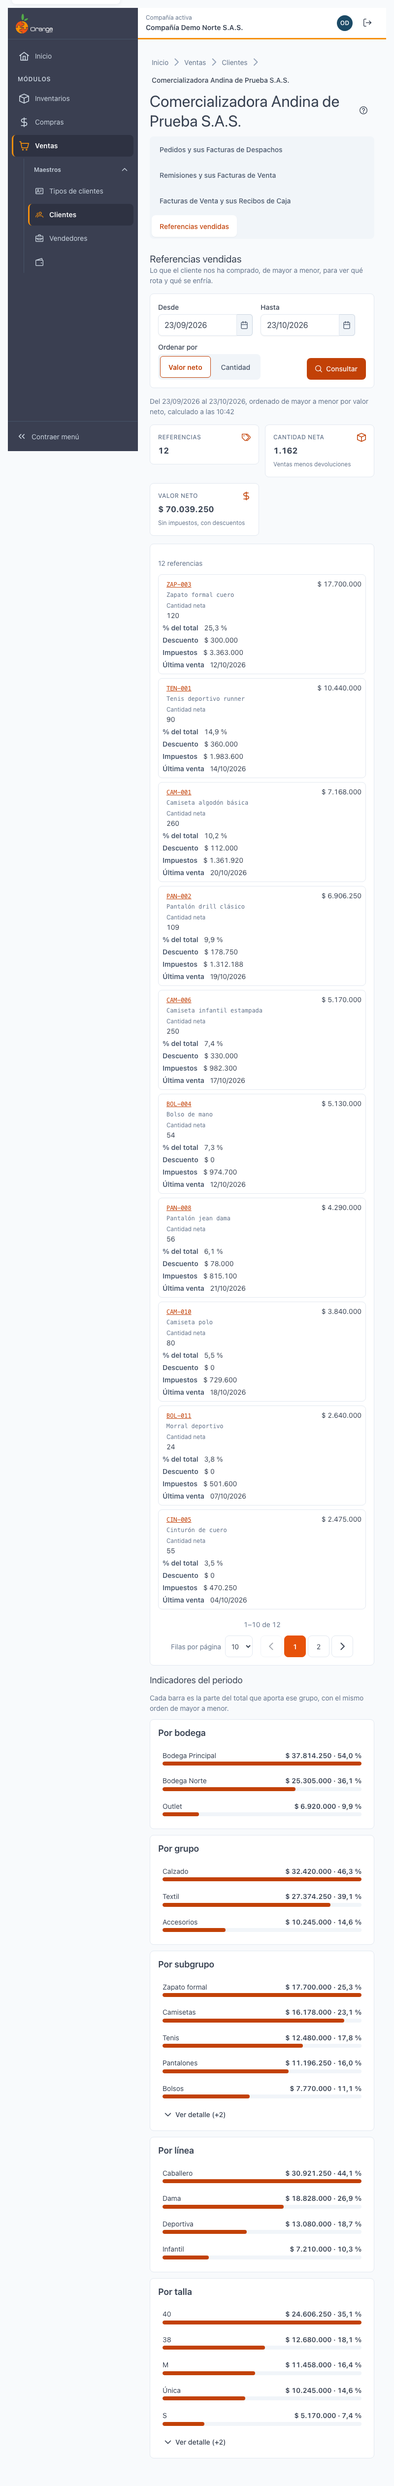
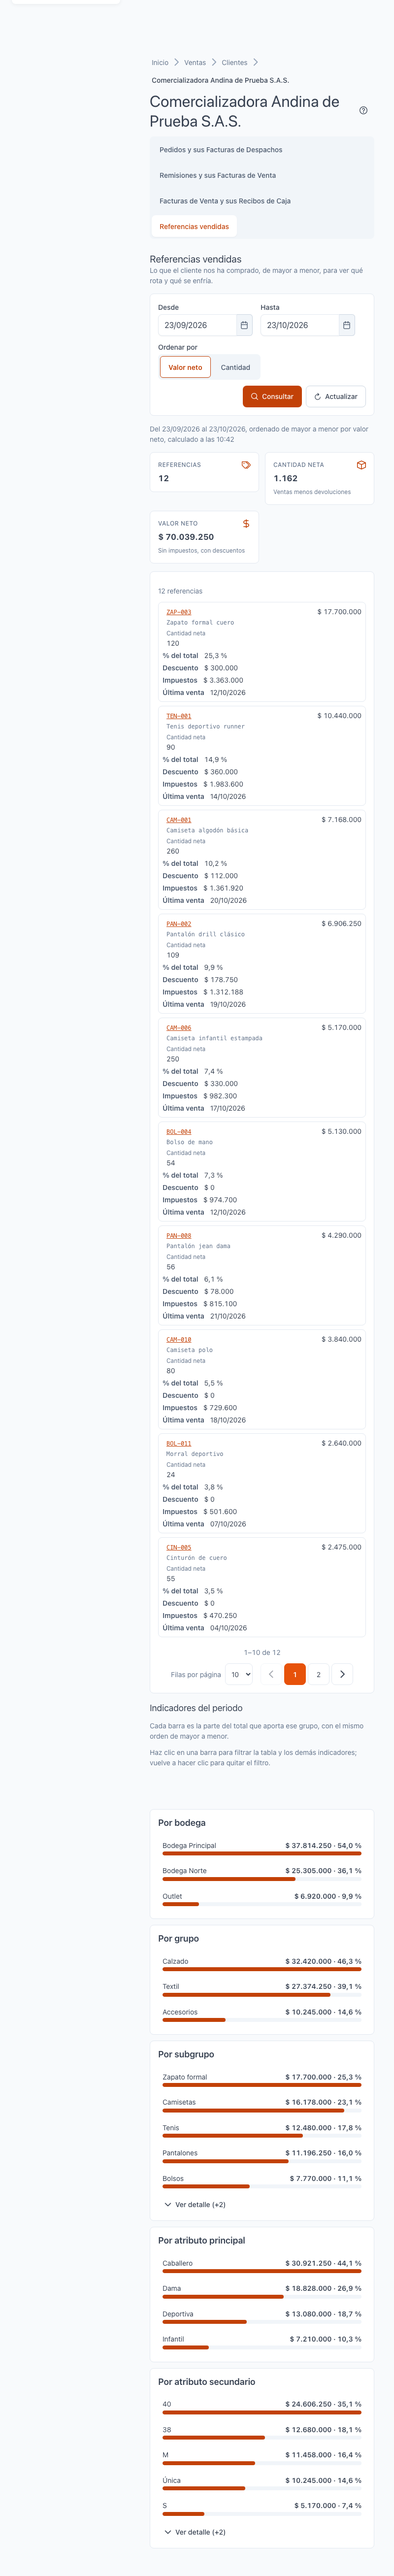
docs(v2026): manual de referencias vendidas con indicadores interactivos y filtros

Changed region(s): [[0.0, 0.0, 0.9375, 0.9952], [0.7188, 0.622, 0.7812, 0.6842], [0.8438, 0.0, 0.9062, 0.0311]]

diff --git a/v2026/ventas/clientes/ficha-referencias-vendidas.md b/v2026/ventas/clientes/ficha-referencias-vendidas.md
@@ -10,13 +10,13 @@
 ![Static Badge](https://img.shields.io/badge/Opcion-FichaReferenciasVendidas-green)
 ![Static Badge](https://img.shields.io/badge/Version-V2026-purple)
 
-![Static Badge](https://img.shields.io/badge/Actualizacion-20261025-yellow)
+![Static Badge](https://img.shields.io/badge/Actualizacion-20261026-yellow)
 
 ---
 
 ## 📋 Descripción
 
-La pestaña **Referencias vendidas** muestra **lo que el cliente nos ha comprado**, de **mayor a menor**, para ver qué productos rotan y cuáles se enfrían. También reparte lo vendido por **bodega, grupo, subgrupo, línea y talla**.
+La pestaña **Referencias vendidas** muestra **lo que el cliente nos ha comprado**, de **mayor a menor**, para ver qué productos rotan y cuáles se enfrían. También reparte lo vendido por **bodega, grupo, subgrupo, atributo principal y atributo secundario**, y le permite filtrar la lista haciendo clic en las barras.
 
 Es una pantalla de **consulta**: no crea, no edita ni elimina nada.
 
@@ -47,9 +47,10 @@ La pestaña solo aparece si su perfil puede **consultar ventas por clientes y re
 |----------|----------------|
 | **?** (junto al título) | Abre esta ayuda en un panel lateral, sin salir de la pantalla. |
 | **Desde** y **Hasta** | Rango de fechas de las ventas. Por defecto es el **último mes**. Puede ampliarlo para ver más historia. |
-| **Ordenar por** | **Valor neto** (por defecto) o **Cantidad**. Cambia el orden de la lista. |
-| **Consultar** | Vuelve a calcular con el rango y el orden elegidos. La pantalla no se actualiza sola. |
-| **Tarjetas de totales** | **Referencias**, **Cantidad neta** (ventas menos devoluciones) y **Valor neto** (sin impuestos, con descuentos). |
+| **Ordenar por** | **Valor neto** (por defecto) o **Cantidad**. Cambia el orden de la lista al momento. |
+| **Consultar** | Vuelve a calcular las ventas con el rango de fechas elegido. La pantalla no se actualiza sola. |
+| **Tarjetas de totales** | **Referencias**, **Cantidad neta** (ventas menos devoluciones) y **Valor neto** (sin impuestos, con descuentos). Muestran solo lo que está filtrado. |
+| **Filtros activos** | Aparecen cuando hay filtros puestos. Vea [Filtrar con los indicadores](#-filtrar-con-los-indicadores). |
 | **Lista de referencias** | Una referencia por fila o tarjeta, de mayor a menor, con cantidad y valor. |
 | **Ver documentos de…** | Abre el detalle de esa referencia (ver más abajo). |
 
@@ -57,12 +58,12 @@ Al pie de la consulta aparece cuándo se calculó (**«Del … al …, ordenado 
 
 ### Mayor a menor
 
-La lista siempre va de **mayor a menor** según la métrica elegida:
+La lista siempre va de **mayor a menor** según la medida elegida:
 
 - Con **Valor neto**, arriba están las referencias que más dinero representan.
 - Con **Cantidad**, arriba están las que más unidades representan.
 
-Cambie la métrica en **Ordenar por** y pulse **Consultar** si lo necesita. Las dos vistas se pueden comparar para encontrar productos con mucho volumen y poco valor, o al revés.
+Cambie la medida en **Ordenar por**. La lista se reordena de inmediato, sin pulsar **Consultar**. Las dos vistas se pueden comparar para encontrar productos con mucho volumen y poco valor, o al revés.
 
 ![Ordenada por cantidad](../recursos/img/ficha-referencias-vendidas/02-por-cantidad.png)
 
@@ -95,8 +96,8 @@ Debajo de la lista están los **Indicadores del periodo**. Cada barra muestra la
 | **Por bodega** | Lo vendido desde cada bodega. |
 | **Por grupo** | Grupos de referencias. |
 | **Por subgrupo** | Subgrupos dentro de cada grupo. |
-| **Por línea** | Líneas de producto. |
-| **Por talla** | Tallas de las referencias. |
+| **Por atributo principal** | Los atributos principales de las referencias (por ejemplo, las tallas). Se configuran en [Atributos principales](../../inventarios/maestros/atributos-principales.md). |
+| **Por atributo secundario** | Los atributos secundarios de las referencias (por ejemplo, los colores). Se configuran en [Atributos secundarios](../../inventarios/maestros/atributos-secundarios.md). |
 
 Cada grupo muestra su cantidad o valor neto y su **porcentaje del total**. Si hay más grupos de los visibles, use **Ver detalle (+n)** para verlos todos y **Ver menos** para volver.
 
@@ -104,11 +105,44 @@ Si en el periodo no hubo ventas, aparece **Sin ventas en el periodo**.
 
 ---
 
+## 🎛 Filtrar con los indicadores
+
+Puede dejar solo las referencias que le interesan haciendo clic en las barras de los indicadores.
+
+![Filtro por grupo](../recursos/img/ficha-referencias-vendidas/06-con-un-filtro.png)
+
+1. Haga clic en una barra (por ejemplo, un grupo).
+2. La **lista**, las **tarjetas de totales** y los **demás indicadores** muestran solo las referencias de ese grupo.
+3. Aparece un **chip** arriba de la lista, con el texto del filtro, por ejemplo **grupo: Calzado**.
+4. Para quitar ese filtro, vuelva a hacer clic en la misma barra o pulse la **×** del chip.
+
+![Dos filtros combinados](../recursos/img/ficha-referencias-vendidas/07-con-dos-filtros.png)
+
+### Reglas de los filtros
+
+- **Puede combinar filtros de indicadores distintos.** Por ejemplo, **grupo: Calzado** y **atributo principal: Caballero**. La lista muestra solo las referencias que cumplen todos.
+- **En cada indicador solo puede haber una barra elegida.** Si hace clic en otra barra del mismo indicador, reemplaza la anterior.
+- **Cada indicador ignora su propio filtro.** Así, si eligió un grupo, la tarjeta **Por grupo** sigue mostrando todos los grupos para que pueda cambiar de grupo. Los demás indicadores sí se ajustan a lo que eligió.
+- **Los filtros, el orden y las páginas son instantáneos.** Al filtrar, ordenar o cambiar de página no hay que esperar ni pulsar **Consultar**.
+- **Quitar filtros:** pulse la **×** de un chip para quitar solo ese filtro, o **Limpiar filtros** para quitarlos todos.
+
+![Quitar un filtro con la × del chip](../recursos/img/ficha-referencias-vendidas/09-quitar-filtro-con-chip.png)
+
+### Sin resultados con los filtros
+
+Si la combinación de filtros no tiene ventas, la lista queda vacía y aparece un aviso de que no hay ventas con esa selección. Los chips siguen visibles: quite uno con su **×** o pulse **Limpiar filtros** para volver a ver todas las referencias.
+
+![Filtro sin resultados](../recursos/img/ficha-referencias-vendidas/08-filtro-sin-resultados.png)
+
+---
+
 ## 🗓 Rango de fechas
 
 - Por defecto se consulta el **último mes**.
-- Para ver ventas anteriores, cambie **Desde** y pulse **Consultar**.
+- Para ver ventas anteriores, cambie **Desde** o **Hasta** y pulse **Consultar**.
+- **Al cambiar el rango de fechas, los filtros se quitan.** La pantalla vuelve a consultar las ventas de ese rango y muestra todas las referencias, sin filtros.
 - Si el rango no tiene ventas, aparece **Este cliente no tiene ventas entre el … y el …**. Amplíe el rango para ver ventas anteriores.
+- Si el rango es **demasiado grande** (tiene más documentos de los que se pueden calcular a la vez), aparece **La consulta es demasiado grande**. Acorte **Desde** y **Hasta** y pulse **Consultar**.
 
 ![Rango sin ventas](../recursos/img/ficha-referencias-vendidas/05-vacio-por-rango.png)
 
@@ -116,14 +150,20 @@ Si en el periodo no hubo ventas, aparece **Sin ventas en el periodo**.
 
 ## 🔄 Cambios de otros usuarios (en vivo)
 
-Esta pantalla **no se actualiza sola**. Si se registran ventas o devoluciones mientras la consulta está abierta, pulse **Consultar** para recalcular.
+Esta pantalla **no se actualiza sola**. Si se registran ventas o devoluciones mientras la consulta está abierta, pulse **Consultar** para recalcular. Al recalcular, los filtros que tenía puestos se mantienen.
 
 ---
 
 ## ❓ Preguntas frecuentes
 
 **¿Por qué una referencia no aparece?**
-No se vendió en el rango de fechas. Amplíe **Desde** o revise que la venta no sea anterior al último mes.
+No se vendió en el rango de fechas, o está oculta por un filtro. Quite los filtros con **Limpiar filtros** y revise el rango en **Desde**.
+
+**¿Por qué la lista está vacía?**
+Los filtros que tiene puestos no coinciden con ninguna venta. Quite uno de los chips o pulse **Limpiar filtros**.
+
+**¿Por qué los demás grupos siguen apareciendo si filtré por uno?**
+Porque cada indicador ignora su propio filtro, para que pueda cambiar la elección dentro de su mismo indicador. Los demás indicadores sí se ajustan.
 
 **¿Por qué la cantidad neta es menor que la vendida?**
 Porque las devoluciones restan. Compare con el detalle de la referencia para ver las devoluciones.
@@ -146,12 +186,16 @@ Su perfil no tiene el permiso de consulta de ventas por clientes y referencias.
 | **No tiene permiso para ver esta información** | Su perfil no tiene el permiso necesario. Consulte con su administrador. |
 | **No se pudo cargar el detalle** | Vuelva a elegir la referencia o pulse **Reintentar**. |
 | **Esta referencia ya no está disponible para este cliente** | Las ventas pudieron cambiar. Pulse **Consultar**. |
+| **La consulta es demasiado grande** | Acorte el rango en **Desde** y **Hasta** y pulse **Consultar**. |
 | **La fecha inicial no puede ser posterior a la final** | Corrija el rango de fechas. |
 
 ---
 
 ## 🧷 Relacionado
 
+- [Manejo general de la información](../../Generales/manejo-general-informacion.md)
+- [Atributos principales](../../inventarios/maestros/atributos-principales.md)
+- [Atributos secundarios](../../inventarios/maestros/atributos-secundarios.md)
 - [Ficha del cliente · Pedidos y sus Facturas de Despachos](ficha-pedidos.md)
 - [Ficha del cliente · Remisiones y sus Facturas de Venta](ficha-remisiones.md)
 - [Ficha del cliente · Facturas de Venta y sus Recibos de Caja](ficha-facturas.md)
